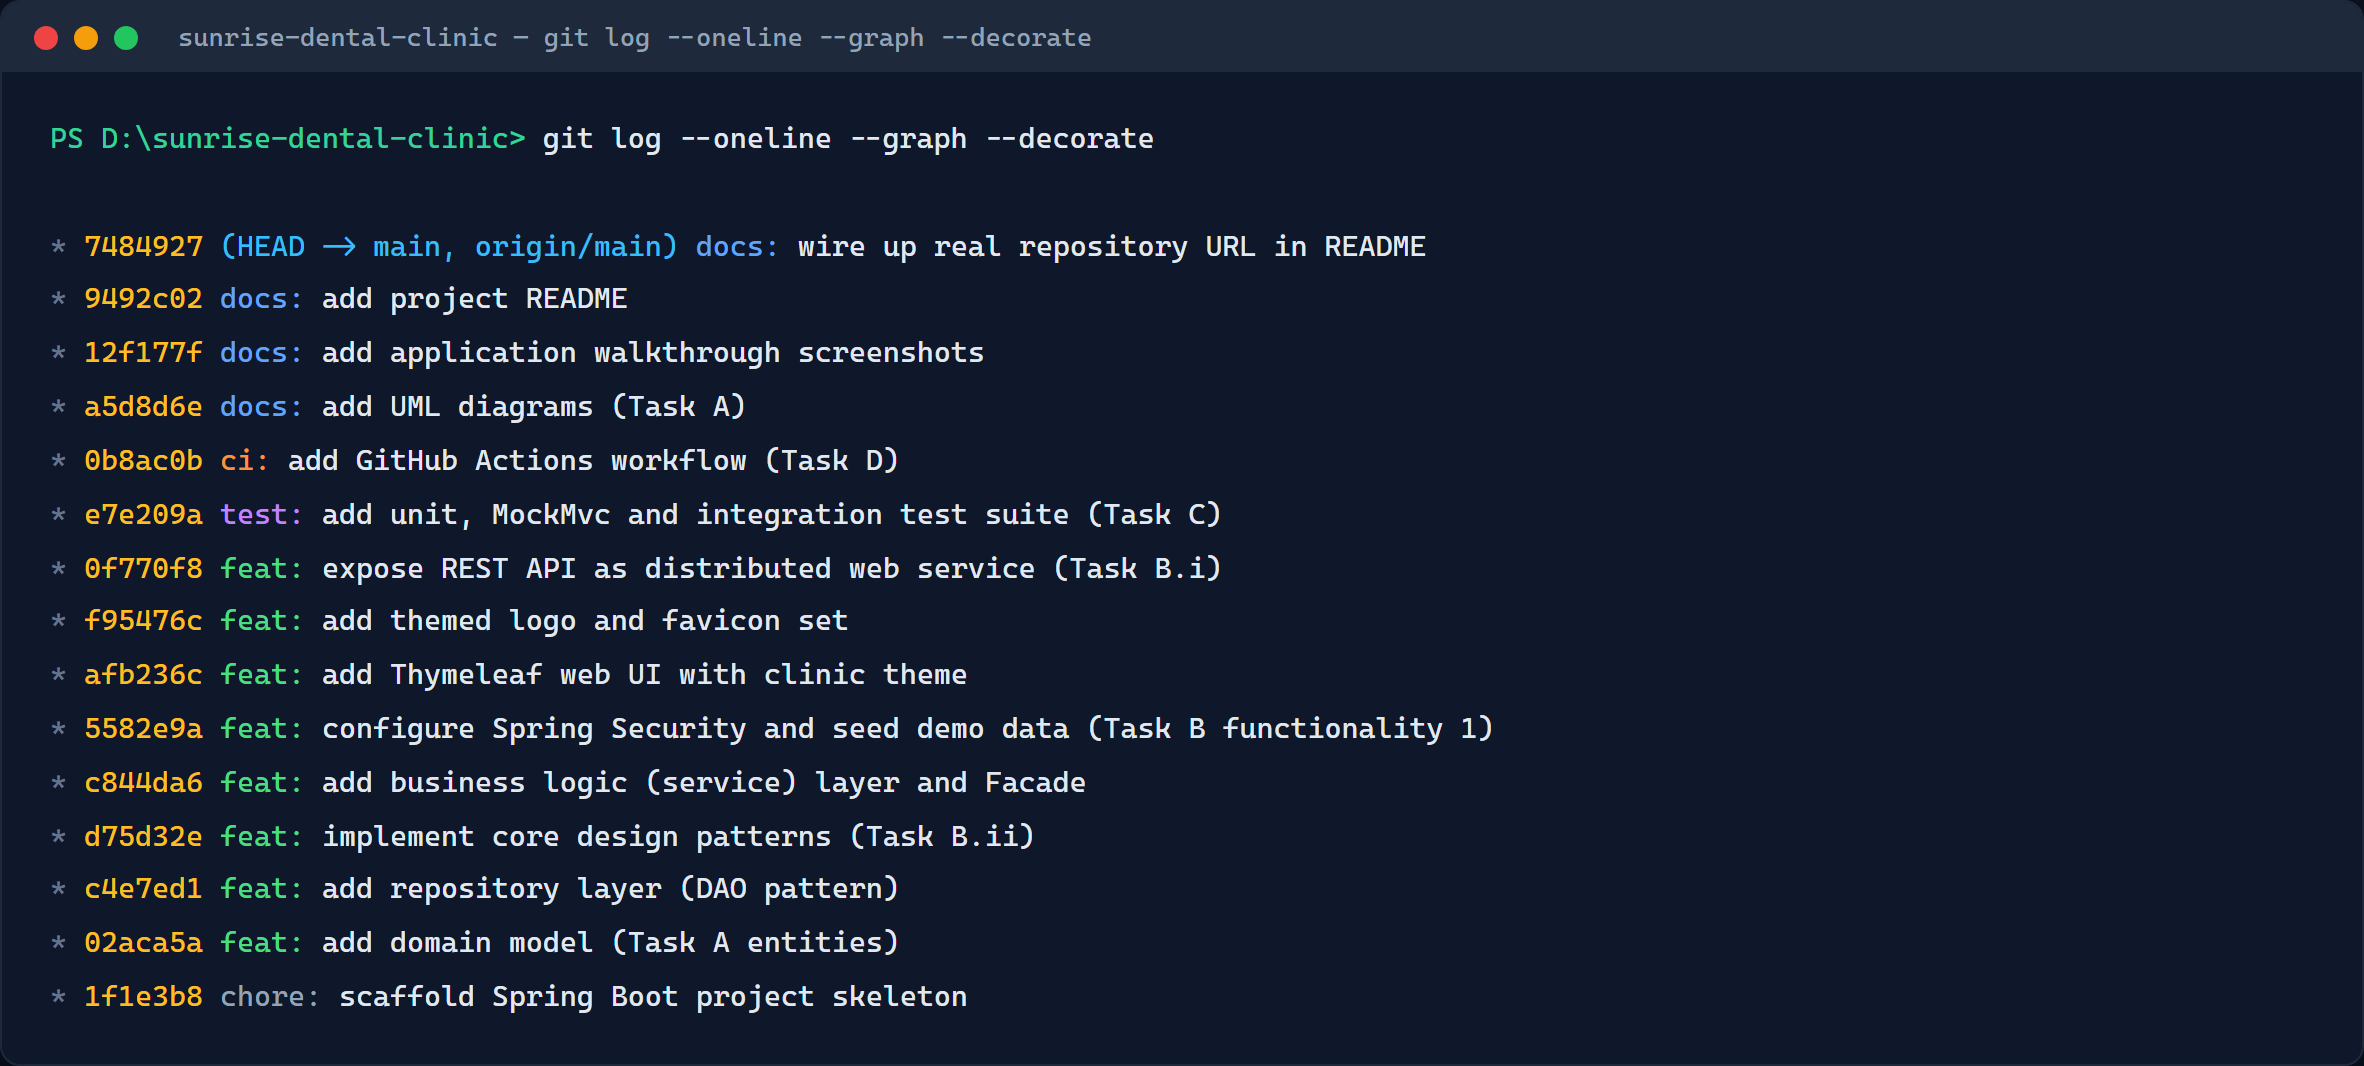
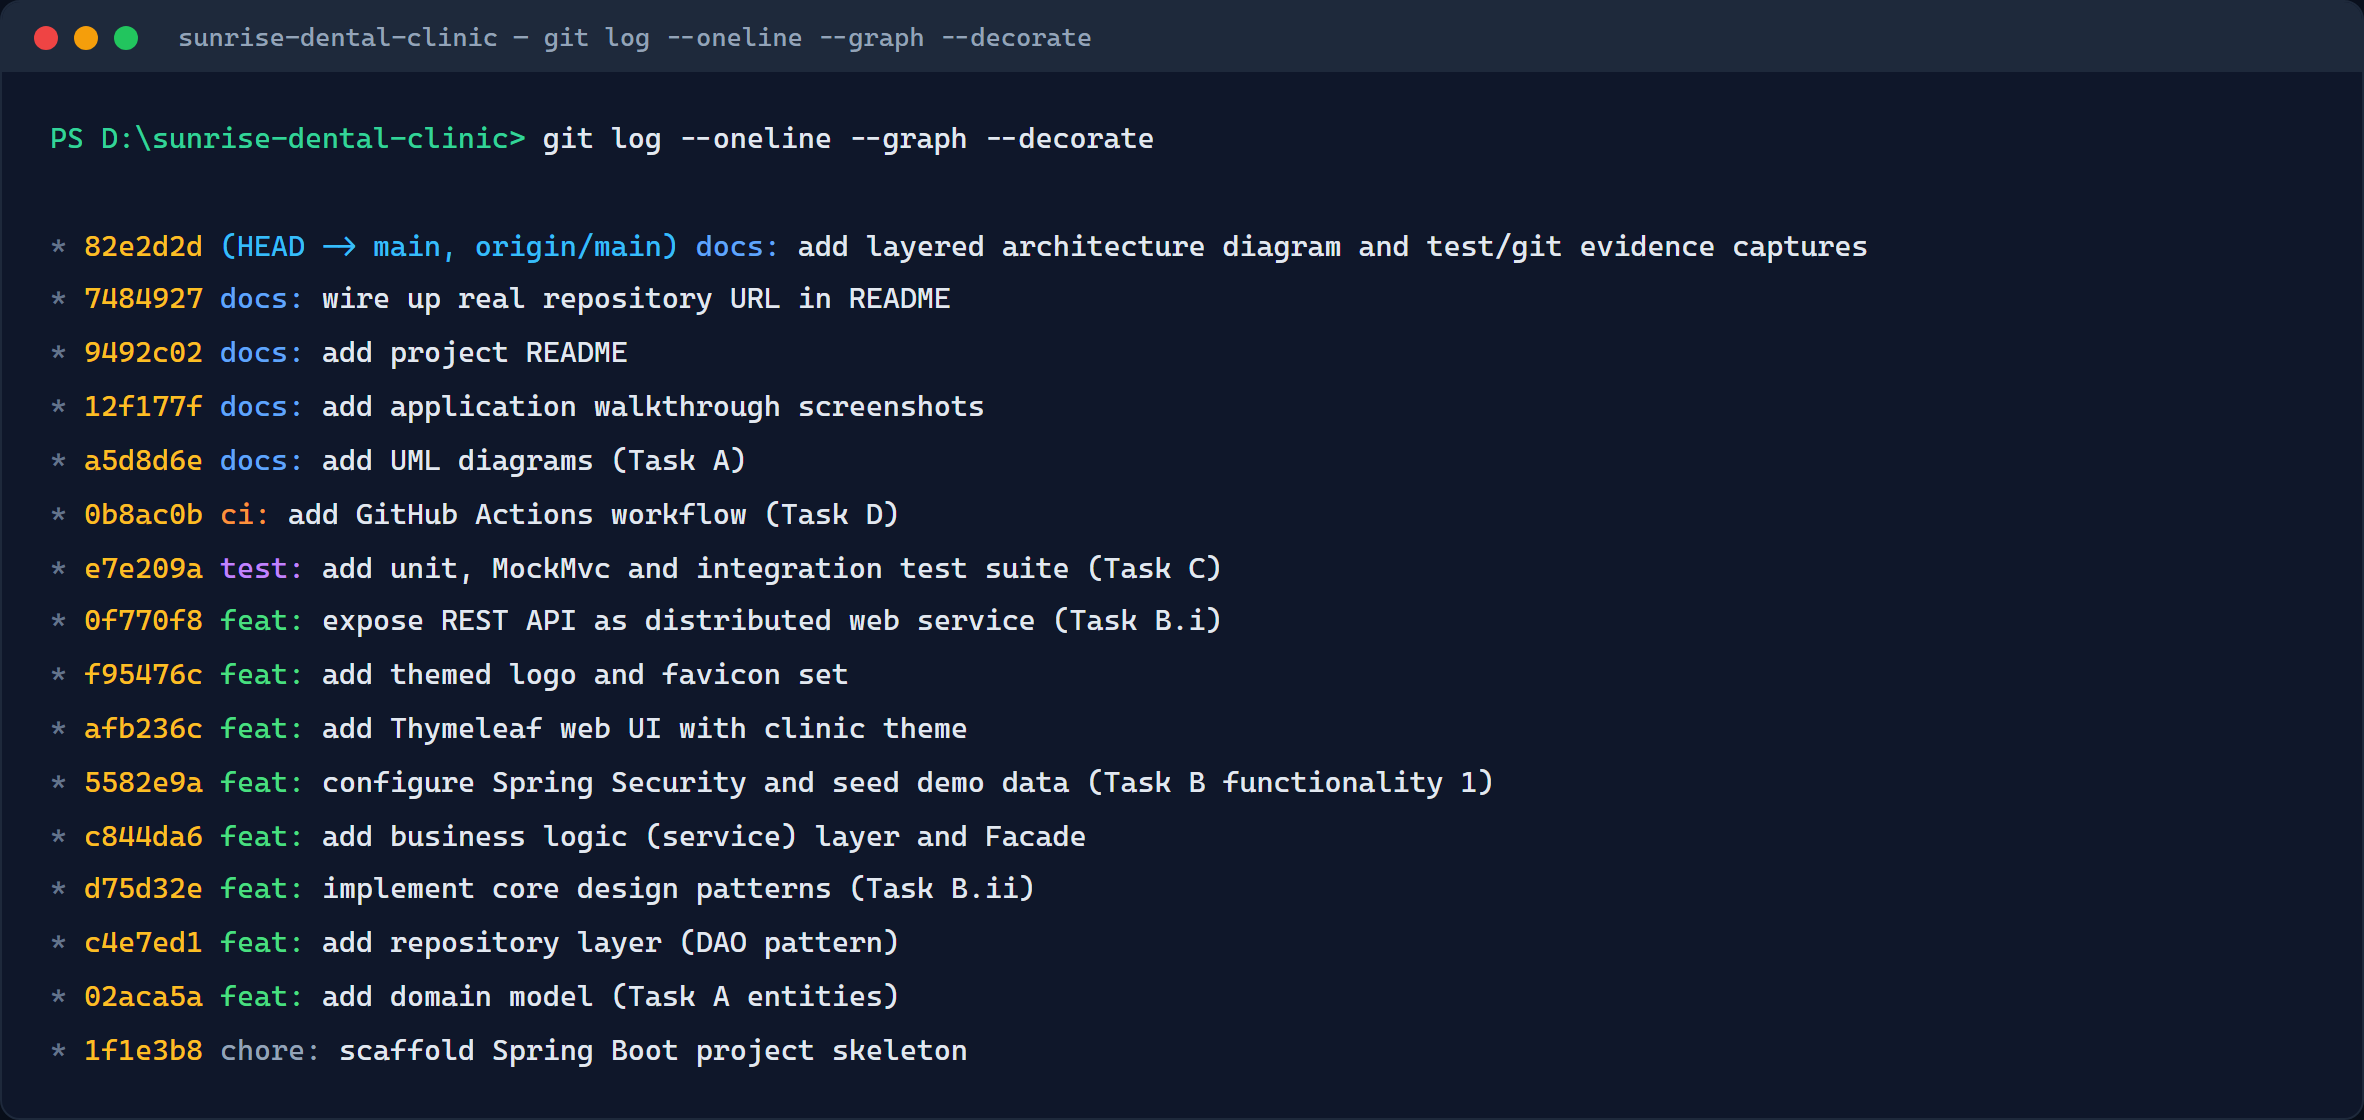
docs: refresh git-log evidence screenshot with latest commits
Updates the terminal-style git log capture used as Task D evidence in the
assessment report to include the two most recent commits.

diff --git a/docs/terminal-git-log.html b/docs/terminal-git-log.html
@@ -44,7 +44,8 @@
   </div>
   <div class="body"><span class="prompt">PS D:\sunrise-dental-clinic&gt;</span> git log --oneline --graph --decorate
 
-<span class="star">*</span> <span class="hash">7484927</span> <span class="decor">(HEAD -&gt; main, origin/main)</span> <span class="type-docs">docs:</span> <span class="msg">wire up real repository URL in README</span>
+<span class="star">*</span> <span class="hash">82e2d2d</span> <span class="decor">(HEAD -&gt; main, origin/main)</span> <span class="type-docs">docs:</span> <span class="msg">add layered architecture diagram and test/git evidence captures</span>
+<span class="star">*</span> <span class="hash">7484927</span> <span class="type-docs">docs:</span> <span class="msg">wire up real repository URL in README</span>
 <span class="star">*</span> <span class="hash">9492c02</span> <span class="type-docs">docs:</span> <span class="msg">add project README</span>
 <span class="star">*</span> <span class="hash">12f177f</span> <span class="type-docs">docs:</span> <span class="msg">add application walkthrough screenshots</span>
 <span class="star">*</span> <span class="hash">a5d8d6e</span> <span class="type-docs">docs:</span> <span class="msg">add UML diagrams (Task A)</span>
